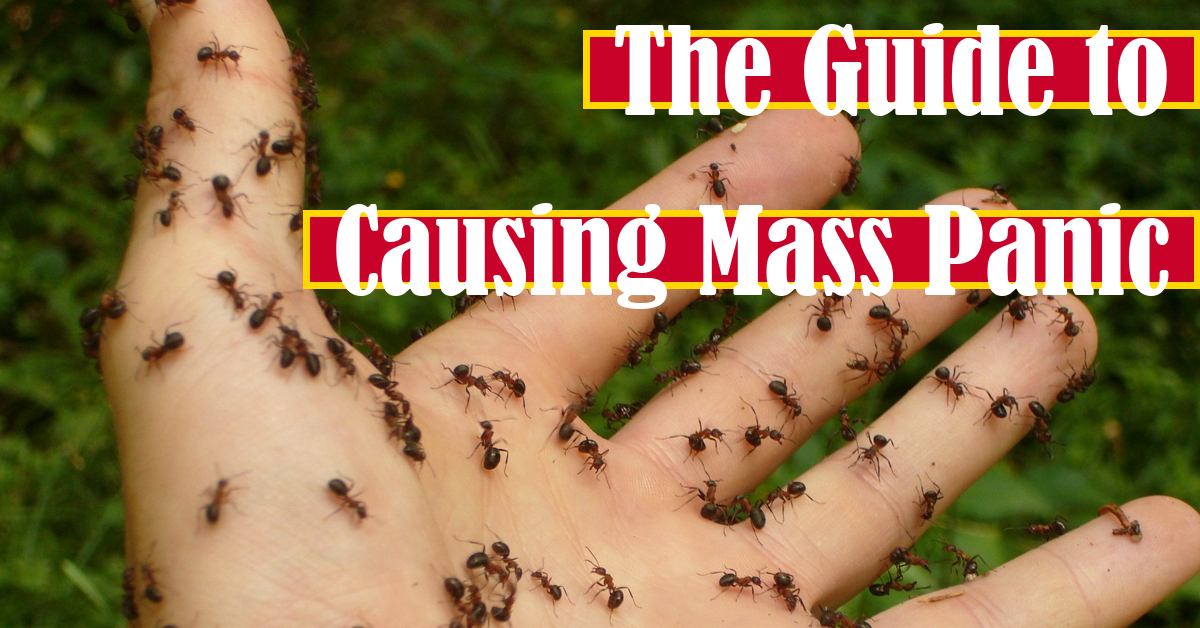
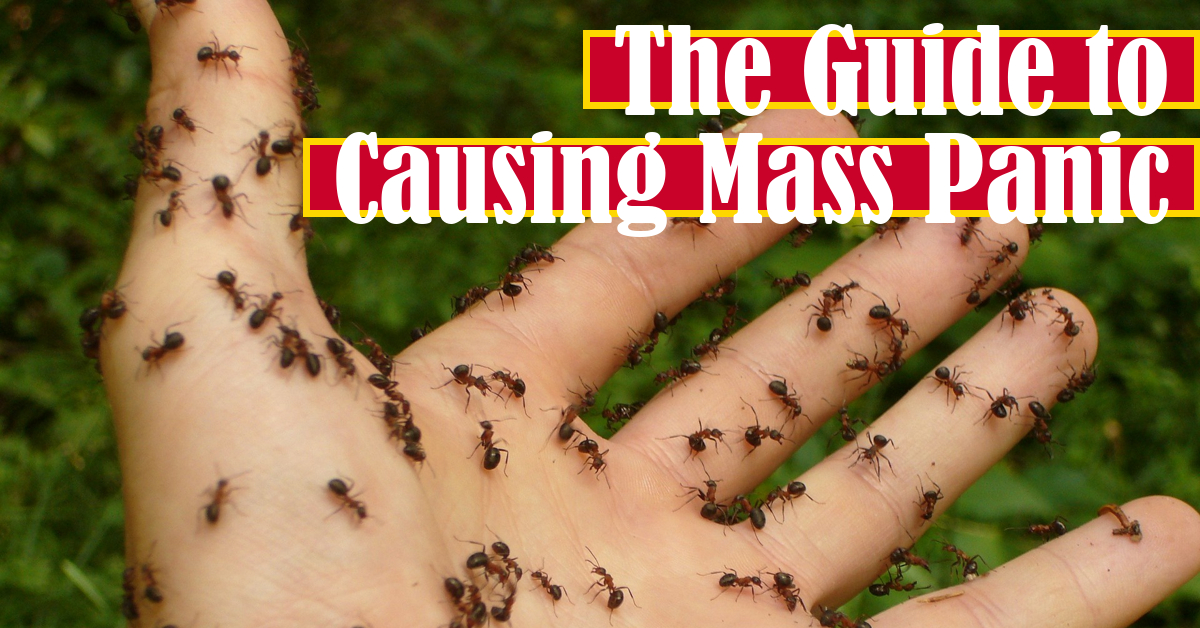
Reworked padding between bars

Changed region(s): [[0.2467, 0.2118, 1.0, 0.5143]]

diff --git a/imagetitler/draw.py b/imagetitler/draw.py
@@ -246,11 +246,13 @@ def _draw_overlay(image: Image.Image, color: tuple, **kwargs) -> Image:
         _draw_rectangle(draw, TOP_RECTANGLE_Y, width, color, **kwargs)
         _draw_text(draw, top_position, top_half_text, font)
 
+        bottom_rectangle_y = TOP_RECTANGLE_Y + _get_bar_height(**kwargs) + 30
+
         # Draw bottom
         if bottom_half_text:
             width, top_offset, height, _ = _get_text_metrics(bottom_half_text, font)
-            bottom_position = _get_text_position(width, height, top_offset, BOTTOM_RECTANGLE_Y, **kwargs)
-            _draw_rectangle(draw, BOTTOM_RECTANGLE_Y, width, color, **kwargs)
+            bottom_position = _get_text_position(width, height, top_offset, bottom_rectangle_y, **kwargs)
+            _draw_rectangle(draw, bottom_rectangle_y, width, color, **kwargs)
             _draw_text(draw, bottom_position, bottom_half_text, font)
 
     return image
